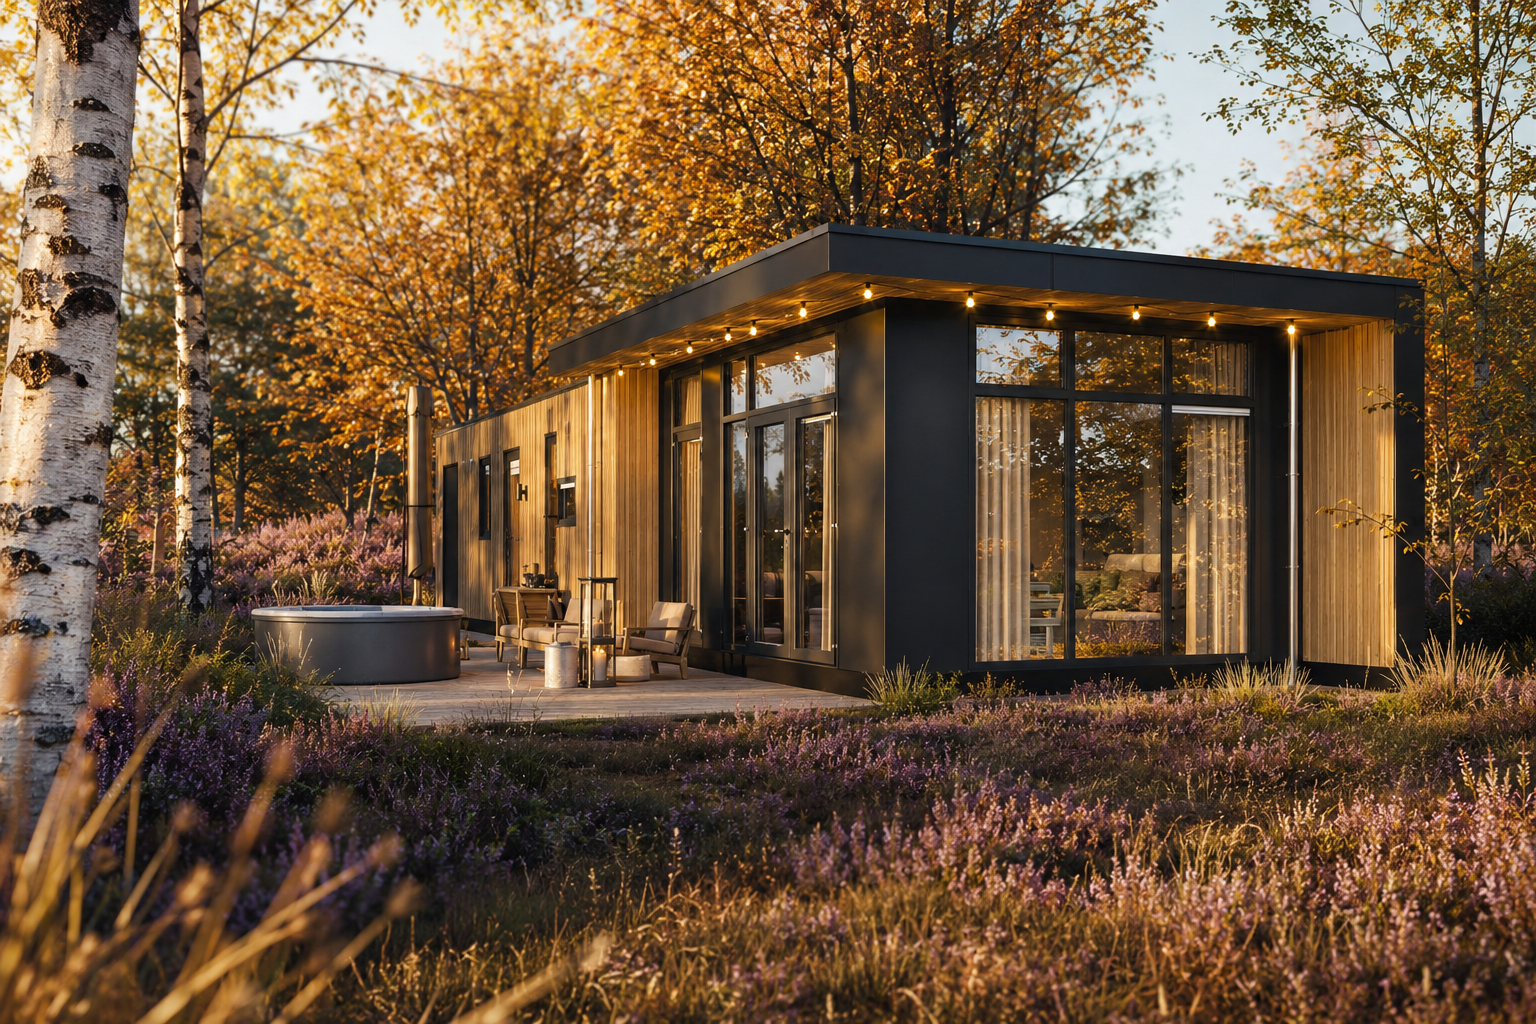
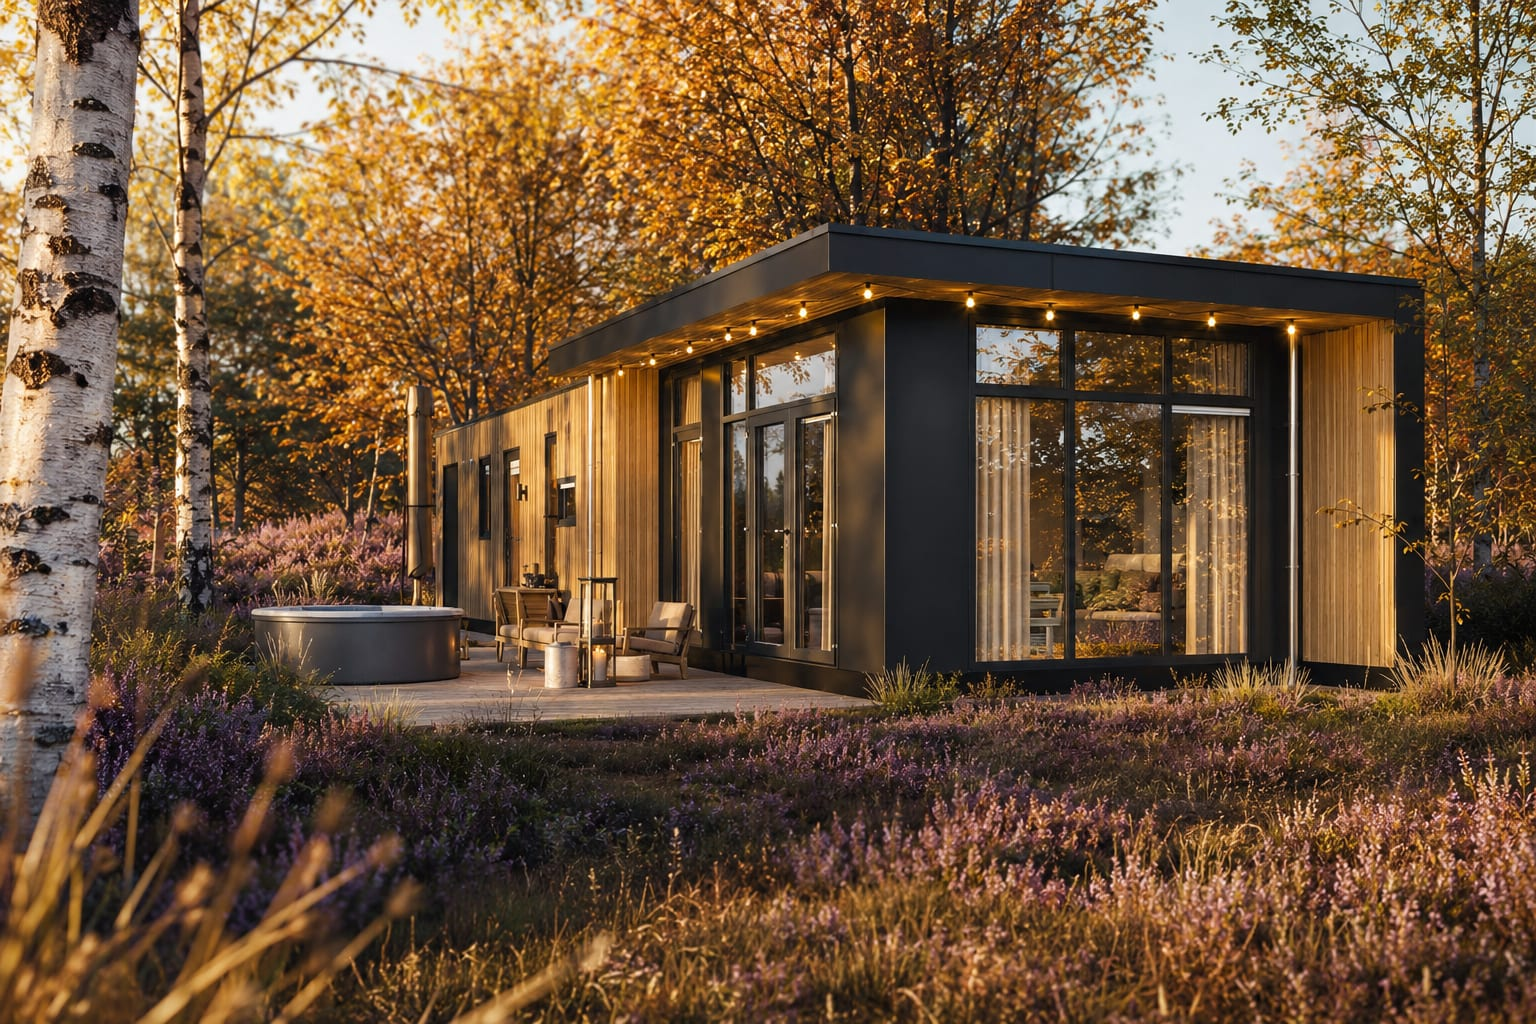
SEO/CRO: comprimeer hero-foto's en maak OG-image per blogpost instelbaar
- lodge-eik.jpg en lodge-heide.jpg waren PNG's met .jpg-extensie van
  3.3-3.5MB; nu echte JPEG's van ~380-400KB (zelfde resolutie/kwaliteit)
- blog_posts krijgt een og_image kolom; admin-editor heeft een
  social-afbeelding picker, met lodge-heide.jpg als fallback
- PUBLIC_IMAGES verplaatst naar lib/site.ts zodat blog- en
  landingspagina-editors dezelfde lijst delen

Changed region(s): [[0.9062, 0.0, 0.9688, 0.0625], [0.9062, 0.125, 0.9375, 0.1562], [0.5625, 0.0312, 0.5938, 0.0625]]

diff --git a/src/app/admin/components/BlogTab.tsx b/src/app/admin/components/BlogTab.tsx
@@ -1,6 +1,7 @@
 "use client";
 import { useState } from "react";
 import { BlogPost } from "../types";
+import { PUBLIC_IMAGES } from "@/lib/site";
 
 const C = {
   bg: "#F7F8FA", card: "#fff", border: "#E5E7EB",
@@ -8,7 +9,7 @@ const C = {
   green: "#2F4F3E", gold: "#B49A5E",
 };
 
-const EMPTY_POST = { id: "", slug: "", titel: "", intro: "", inhoud: "", categorie: "Verhaal", leestijd: "4 minuten", auteur: "Arjan Reinders", geplande_publicatie: "" };
+const EMPTY_POST = { id: "", slug: "", titel: "", intro: "", inhoud: "", categorie: "Verhaal", leestijd: "4 minuten", auteur: "Arjan Reinders", og_image: "", geplande_publicatie: "" };
 
 export function slugify(s: string): string {
   return s.toLowerCase().trim()
@@ -55,6 +56,7 @@ export function BlogTab({ posts, setPosts }: { posts: BlogPost[]; setPosts: (p: 
     setForm({
       id: p.id, slug: p.slug, titel: p.titel, intro: p.intro, inhoud: p.inhoud,
       categorie: p.categorie, leestijd: p.leestijd, auteur: p.auteur,
+      og_image: p.og_image || "",
       geplande_publicatie: isoToLocalInput(p.geplande_publicatie),
     });
     setMsg(""); setPreview(false); setView("edit");
@@ -266,6 +268,16 @@ export function BlogTab({ posts, setPosts }: { posts: BlogPost[]; setPosts: (p: 
               <label style={{ display: "block", fontSize: 11, color: C.muted, marginBottom: 4 }}>Auteur</label>
               <input value={form.auteur} onChange={e => setForm(f => ({ ...f, auteur: e.target.value }))} style={inp} />
             </div>
+          </div>
+
+          <div>
+            <label style={{ display: "block", fontSize: 11, color: C.muted, marginBottom: 4 }}>
+              Social/OG-afbeelding <span style={{ color: C.light, fontWeight: 300 }}>— gebruikt bij delen op social media; standaard lodge-heide.jpg</span>
+            </label>
+            <select value={form.og_image} onChange={e => setForm(f => ({ ...f, og_image: e.target.value }))} style={inp}>
+              <option value="">Standaard (lodge-heide.jpg)</option>
+              {PUBLIC_IMAGES.map(img => <option key={img} value={img}>{img}</option>)}
+            </select>
           </div>
 
           <div>

diff --git a/src/app/blog/[slug]/page.tsx b/src/app/blog/[slug]/page.tsx
@@ -3,6 +3,7 @@ import { Metadata } from "next";
 import { notFound } from "next/navigation";
 import { NewsletterForm } from "@/components/NewsletterForm";
 import { getSupabase } from "@/lib/supabase";
+import { SITE_URL } from "@/lib/site";
 
 export const revalidate = 60;
 
@@ -14,6 +15,7 @@ type BlogPost = {
   categorie: string;
   leestijd: string;
   auteur: string;
+  og_image: string | null;
   gepubliceerd_op: string | null;
 };
 
@@ -37,24 +39,25 @@ export async function generateMetadata(
   const { slug } = await params;
   const post = await getPost(slug);
   if (!post) return { title: "Niet gevonden" };
+  const ogImage = `${SITE_URL}${post.og_image || "/lodge-heide.jpg"}`;
   return {
     title: post.titel,
     description: post.intro,
-    alternates: { canonical: `https://www.huisterhuynen.nl/blog/${post.slug}` },
+    alternates: { canonical: `${SITE_URL}/blog/${post.slug}` },
     openGraph: {
       title: post.titel,
       description: post.intro,
-      url: `https://www.huisterhuynen.nl/blog/${post.slug}`,
+      url: `${SITE_URL}/blog/${post.slug}`,
       type: "article",
       publishedTime: post.gepubliceerd_op || undefined,
       modifiedTime: post.gepubliceerd_op || undefined,
       authors: [post.auteur],
       images: [
         {
-          url: "https://www.huisterhuynen.nl/lodge-heide.jpg",
+          url: ogImage,
           width: 1200,
           height: 630,
-          alt: "Huis ter Huynen – Boutique Lodge Drenthe",
+          alt: post.titel,
         },
       ],
     },
@@ -62,7 +65,7 @@ export async function generateMetadata(
       card: "summary_large_image",
       title: post.titel,
       description: post.intro,
-      images: ["https://www.huisterhuynen.nl/lodge-heide.jpg"],
+      images: [ogImage],
     },
   };
 }

diff --git a/src/app/admin/components/LandingTab.tsx b/src/app/admin/components/LandingTab.tsx
@@ -2,12 +2,7 @@
 import { useState } from "react";
 import { LandingPageRow, LandingSection } from "../types";
 import { slugify } from "./BlogTab";
-
-const PUBLIC_IMAGES = [
-  "/lodge-heide.jpg", "/lodge-eik.jpg", "/heide1.jpg", "/heide2.jpg", "/heide3.jpg",
-  "/wandel_drenthe.jpg", "/welness_drenthe.jpg", "/museum_drenthe.jpg", "/rent_a_bike.jpg",
-  "/borrel1.jpg", "/late_check_out.jpg",
-];
+import { PUBLIC_IMAGES } from "@/lib/site";
 
 type LandingSectionForm = { eyebrow: string; heading: string; bodyText: string; bulletsText: string };
 type LandingForm = {

diff --git a/src/lib/site.ts b/src/lib/site.ts
@@ -2,6 +2,13 @@
  *  metadata, canonicals and JSON-LD. Always the www host. */
 export const SITE_URL = "https://www.huisterhuynen.nl";
 
+/** Images in /public usable as hero/OG images for landing pages and blog posts. */
+export const PUBLIC_IMAGES = [
+  "/lodge-heide.jpg", "/lodge-eik.jpg", "/heide1.jpg", "/heide2.jpg", "/heide3.jpg",
+  "/wandel_drenthe.jpg", "/welness_drenthe.jpg", "/museum_drenthe.jpg", "/rent_a_bike.jpg",
+  "/borrel1.jpg", "/late_check_out.jpg",
+];
+
 /** Starting price per night (both lodges). Single source for copy + Offer schema. */
 export const PRICE_FROM_EUR = 165;
 export const PRICE_FROM_LABEL = "Vanaf €165 per nacht";

diff --git a/src/app/api/admin/data/_content.ts b/src/app/api/admin/data/_content.ts
@@ -65,7 +65,7 @@ export async function handleContentGet(table: string): Promise<NextResponse | nu
 export async function handleContentPost(action: string, body: Record<string, unknown>, _request: NextRequest): Promise<NextResponse | null> {
   switch (action) {
     case "create_blog_post": {
-      const { slug, titel, intro, inhoud, categorie, leestijd, auteur, geplande_publicatie } = body;
+      const { slug, titel, intro, inhoud, categorie, leestijd, auteur, og_image, geplande_publicatie } = body;
       if (!slug || !titel || !inhoud) return NextResponse.json({ error: "Slug, titel en inhoud zijn verplicht" }, { status: 400 });
       const planned = parsePlannedDate(geplande_publicatie);
       if (planned === "invalid") return NextResponse.json({ error: "Ongeldige plan-datum" }, { status: 400 });
@@ -75,6 +75,7 @@ export async function handleContentPost(action: string, body: Record<string, unk
         categorie: categorie || "Verhaal",
         leestijd: leestijd || "4 minuten",
         auteur: auteur || "Arjan Reinders",
+        og_image: og_image || null,
         gepubliceerd: false,
         geplande_publicatie: planned,
       }).select().single();
@@ -82,13 +83,14 @@ export async function handleContentPost(action: string, body: Record<string, unk
       return NextResponse.json({ success: true, data });
     }
     case "update_blog_post": {
-      const { id, slug, titel, intro, inhoud, categorie, leestijd, auteur, geplande_publicatie } = body;
+      const { id, slug, titel, intro, inhoud, categorie, leestijd, auteur, og_image, geplande_publicatie } = body;
       if (!id) return NextResponse.json({ error: "ID verplicht" }, { status: 400 });
       const planned = parsePlannedDate(geplande_publicatie);
       if (planned === "invalid") return NextResponse.json({ error: "Ongeldige plan-datum" }, { status: 400 });
       const { error } = await getSupabase().from("blog_posts").update({
         slug: String(slug).toLowerCase().trim().replace(/\s+/g, "-"),
         titel, intro, inhoud, categorie, leestijd, auteur,
+        og_image: og_image || null,
         geplande_publicatie: planned,
         updated_at: new Date().toISOString(),
       }).eq("id", id);

diff --git a/src/app/admin/types.ts b/src/app/admin/types.ts
@@ -4,7 +4,7 @@ export type Review = { id: string; naam: string; sterren: number; tekst: string;
 export type Product = { id: string; naam: string; omschrijving: string | null; prijs: number; categorie: string; actief: boolean; volgorde: number; btw_percentage: number; grootboek_code: string };
 export type Stay = { id: string; guest_id: string; lodge: string; check_in: string; check_out: string; token: string; door_code: string; wifi_code: string; status: string; welcome_sent: boolean; guests?: { naam: string; email: string } };
 export type DiscountCode = { id: string; code: string; omschrijving: string | null; type: "percentage" | "fixed"; waarde: number; geldig_van: string | null; geldig_tot: string | null; max_gebruik: number | null; gebruik_count: number; min_nachten: number | null; actief: boolean; created_at: string };
-export type BlogPost = { id: string; slug: string; titel: string; intro: string; inhoud: string; categorie: string; leestijd: string; auteur: string; gepubliceerd: boolean; gepubliceerd_op: string | null; geplande_publicatie: string | null; created_at: string };
+export type BlogPost = { id: string; slug: string; titel: string; intro: string; inhoud: string; categorie: string; leestijd: string; auteur: string; og_image: string | null; gepubliceerd: boolean; gepubliceerd_op: string | null; geplande_publicatie: string | null; created_at: string };
 export type LandingSection = { eyebrow?: string; heading: string; body: string[]; bullets?: string[] };
 export type LandingPageRow = {
   id: string; slug: string; breadcrumb: string; eyebrow: string; h1: string;